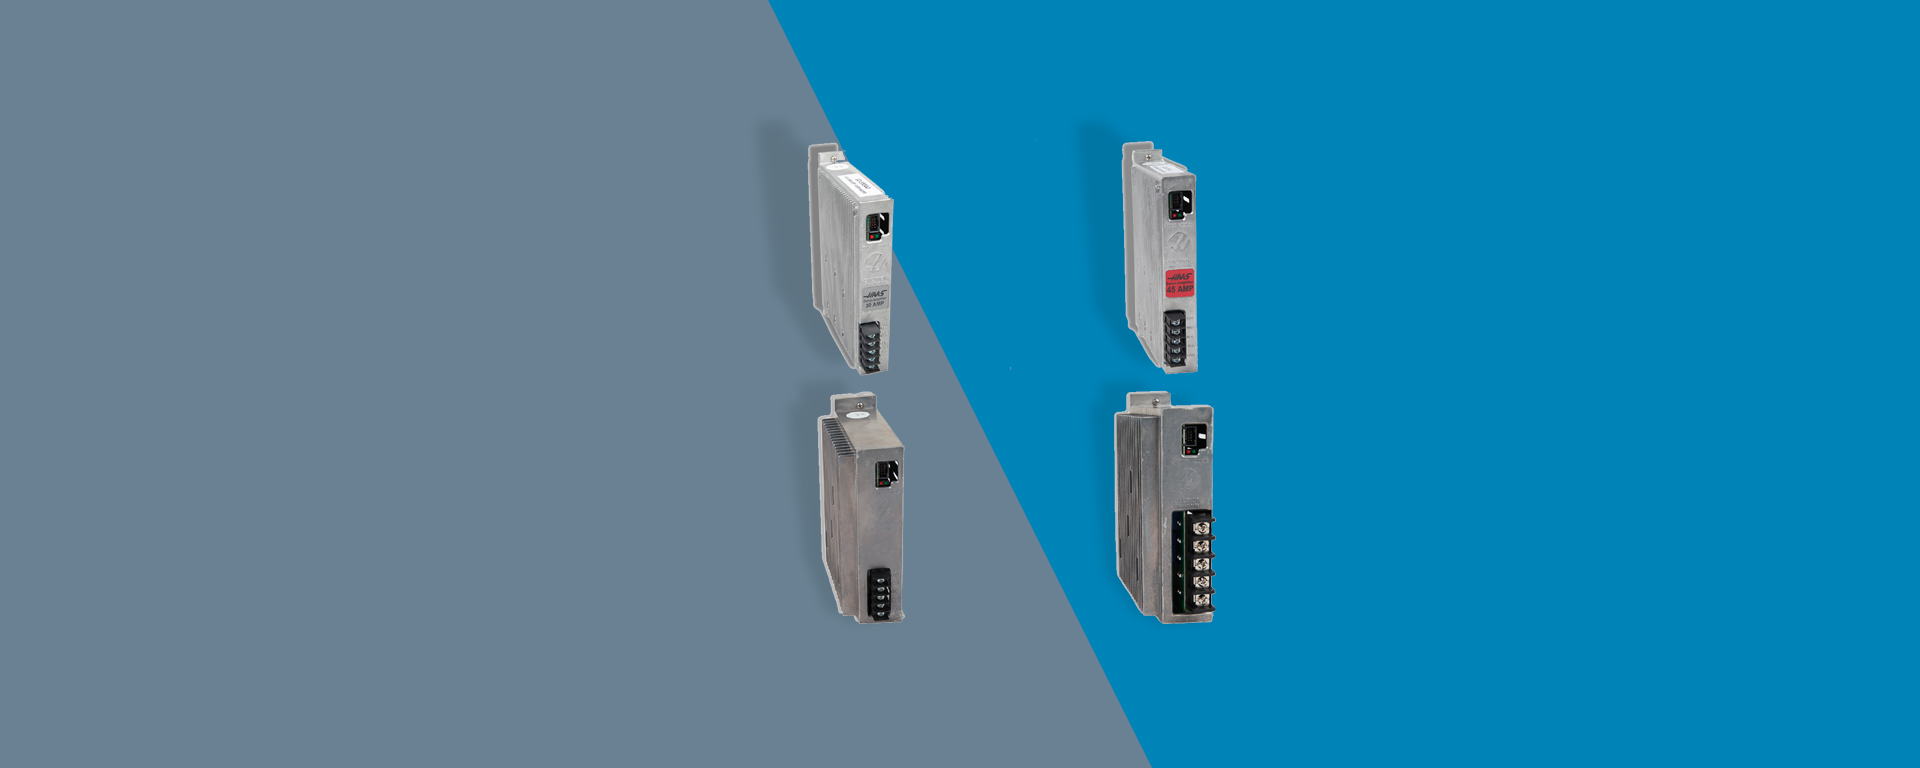
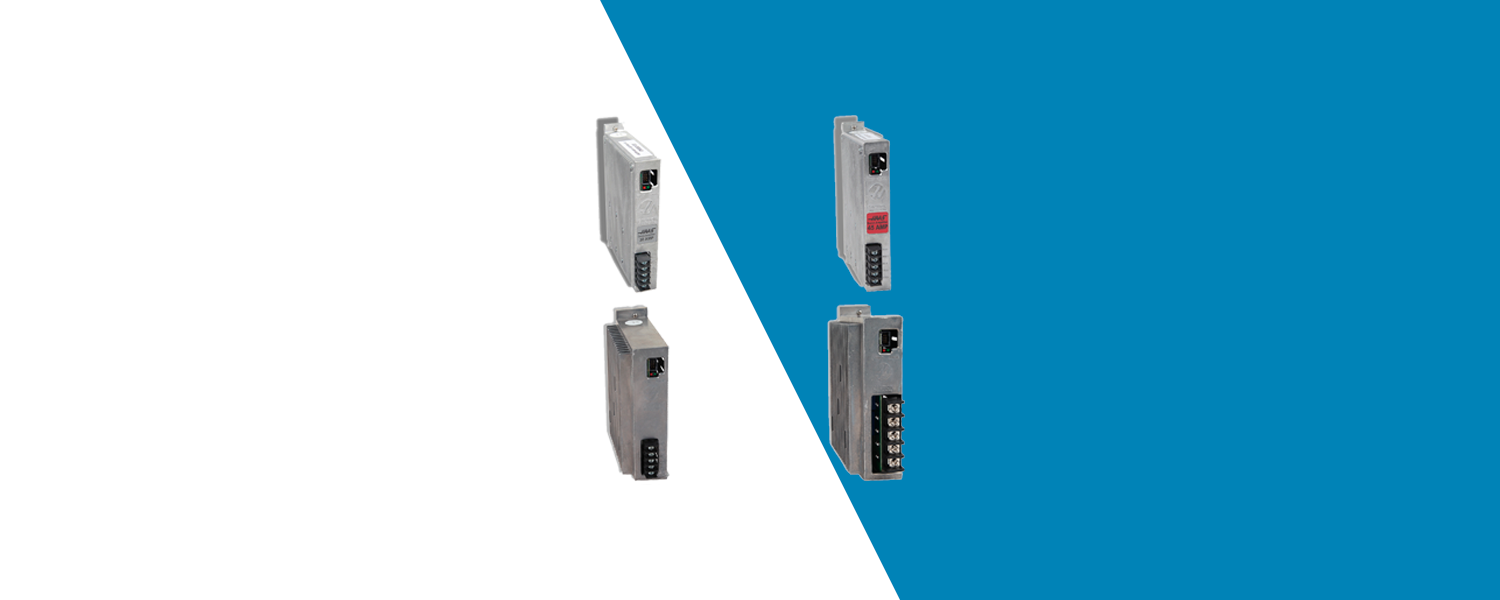
1.3

diff --git a/css/main.css b/css/main.css
@@ -54,7 +54,7 @@ body{
 }
 
 .manual-btn:hover{
-    background-color: #fff;
+    background-color: blue;
 }
 
 #radio1:checked ~ .first{
@@ -91,16 +91,16 @@ body{
 }
 
 #radio1:checked ~ .navigation-auto .autobtn1{
-    background-color: #fff;
+    background-color: blue;
 }
 #radio2:checked ~ .navigation-auto .autobtn2{
-    background-color: #fff;
+    background-color:  blue;
 }
 #radio3:checked ~ .navigation-auto .autobtn3{
-    background-color: #fff;
+    background-color: blue;
 }
 #radio4:checked ~ .navigation-auto .autobtn4{
-    background-color: #fff;
+    background-color: blue;
 }
 
 .navigation-auto div:not(:last-child){
@@ -255,7 +255,7 @@ footer .container p{
     }
     
     .slides input{
-        display: none;
+       /*display: none;*/
     }
     
     .slide{
@@ -274,7 +274,7 @@ footer .container p{
     }
     
     .manual-btn{
-        border: 3px solid #fff;
+        border: 3px solid  grey;
         padding: 10px;
         border-radius: 25px;
         cursor: pointer;
@@ -287,7 +287,7 @@ footer .container p{
     }
     
     .manual-btn:hover{
-        background-color: #fff;
+        background-color: #20a6ff;
     }
     
     #radio1:checked ~ .first{
@@ -295,22 +295,22 @@ footer .container p{
     
     }
     #radio2:checked ~ .first{
-        margin-left: -100%;
+        margin-left: -102%;
     
     }
     #radio3:checked ~ .first{
-        margin-left: -200%;
+        margin-left: -203%;
     
     }
     #radio4:checked ~ .first{
-        margin-left: -300%;
+        margin-left: -304%;
     
     }
     
     .navigation-auto div{
         border: 2px solid #20a6ff;
         padding: 5px;
-        border-radius: 10px;
+        border-radius: 7px;
         cursor: pointer;
         transition: 1s;
     }
@@ -324,16 +324,16 @@ footer .container p{
     }
     
     #radio1:checked ~ .navigation-auto .autobtn1{
-        background-color: #fff;
+        background-color: blue;
     }
     #radio2:checked ~ .navigation-auto .autobtn2{
-        background-color: #fff;
+        background-color:  blue;
     }
     #radio3:checked ~ .navigation-auto .autobtn3{
-        background-color: #fff;
+        background-color: blue;
     }
     #radio4:checked ~ .navigation-auto .autobtn4{
-        background-color: #fff;
+        background-color: blue;
     }
     
     .navigation-auto div:not(:last-child){
@@ -348,8 +348,8 @@ footer .container p{
 
     
     .haas {
-        top: 0px;
-        right: 900px;
+        top: 70px;
+        right: 100px;
     }
 
     .haas img{

diff --git a/index.html b/index.html
@@ -9,6 +9,8 @@
 </head>
 
 <body>
+
+  <script type="text/javascript" src="script.js"></script>
     
   <div class="slider">
 
@@ -19,7 +21,7 @@
         <input type="radio" name="radio-btn" id="radio4">
 
         <div class="slide first">  
-          <img src="./img/imagem5.png" width="1520px"  alt="imagem 2">   
+          <img src="./img/imagem2.png" width="1520px"  alt="imagem 2">   
         </div>
         <div class="slide">  
           <img src="./img/imagem3.png"  width="1520px" alt="imagem 4">     
@@ -61,7 +63,6 @@
           <ul>
               <li><a href="index.html" >Inicio</a></li>
               <li><a href="Reparos.html" >Serviços</a></li>
-              <li><a href="Produtos.html" >Produtos</a></li>
           </ul>
       </div>
   </div>

diff --git a/js/script.js b/js/script.js
@@ -1,15 +1,18 @@
-let count = 1;
-document.getElementById("radio1").checked = true;
 
-setInterval(function(){
+var radio = document.querySelector('.manual-btn')
+var count = 1 
+
+document.getElementById('radio1').checked = true
+
+setInterval(() =>{
     nextImage()
 },5000)
 
 function nextImage(){
-    count++;
+    count++
     if(count>4){
-        count=1;
+        count=1
     }
 
-    document.getElementById("radio"+count).checked = true;
+    document.getElementById('radio'+count).checked = true
 }

diff --git a/Produtos.html b/Produtos.html
@@ -17,7 +17,6 @@
             <ul>
                 <li><a href="index.html" >Inicio</a></li>
                 <li><a href="Reparos.html" >Serviços</a></li>
-                <li><a href="Produtos.html" >Produtos</a></li>
             </ul>
         </div>
     </div>

diff --git a/Reparos.html b/Reparos.html
@@ -18,7 +18,7 @@
             <ul>
               <li><a href="index.html" >Inicio</a></li>
               <li><a href="Reparos.html" >Serviços</a></li>
-              <li><a href="Produtos.html" >Produtos</a></li>
+
             </ul>
         </div>
     </div>

diff --git a/maquina1.html b/maquina1.html
@@ -17,7 +17,6 @@
             <ul>
               <li><a href="index.html" >Inicio</a></li>
               <li><a href="servicos.html" >Serviços</a></li>
-              <li><a href="Produtos.html" >Produtos</a></li>
             </ul>
         </div>
     </div>

diff --git a/Manutenção.html b/Manutenção.html
@@ -18,7 +18,6 @@
             <ul>
               <li><a href="index.html" >Inicio</a></li>
               <li><a href="Reparos.html" >Serviços</a></li>
-              <li><a href="Produtos.html" >Produtos</a></li>
             </ul>
         </div>
     </div>
